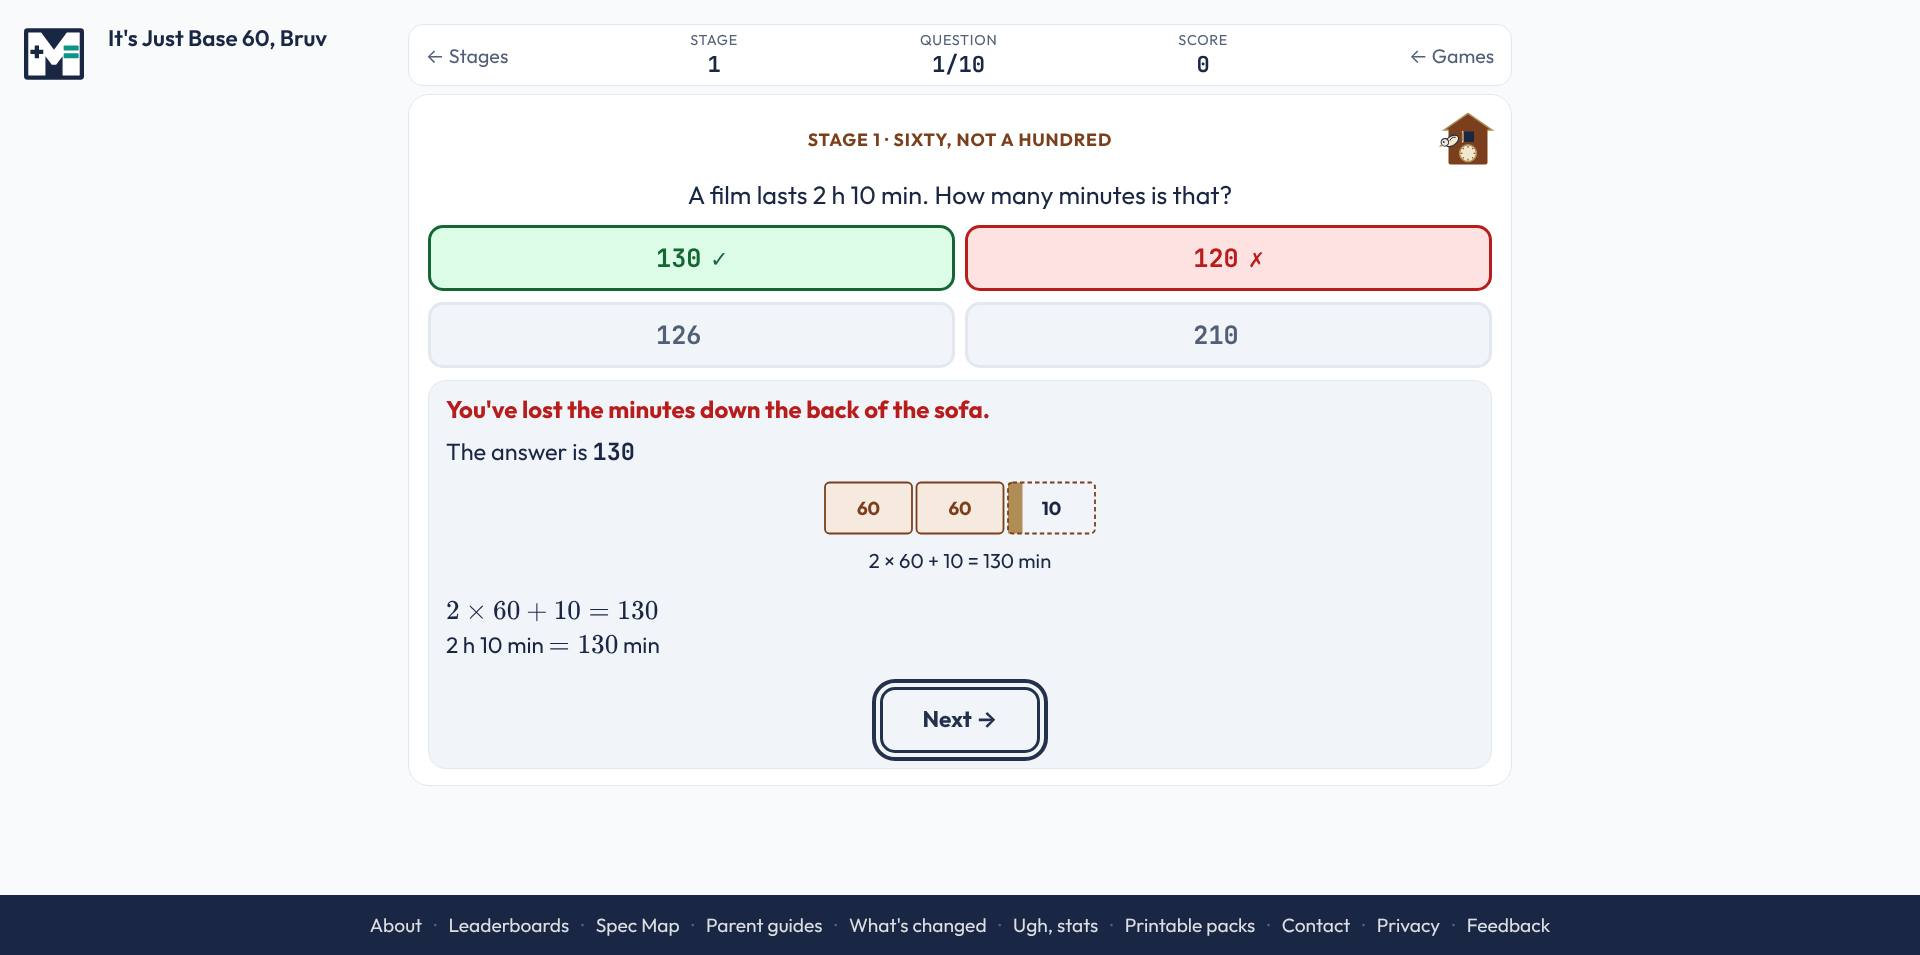
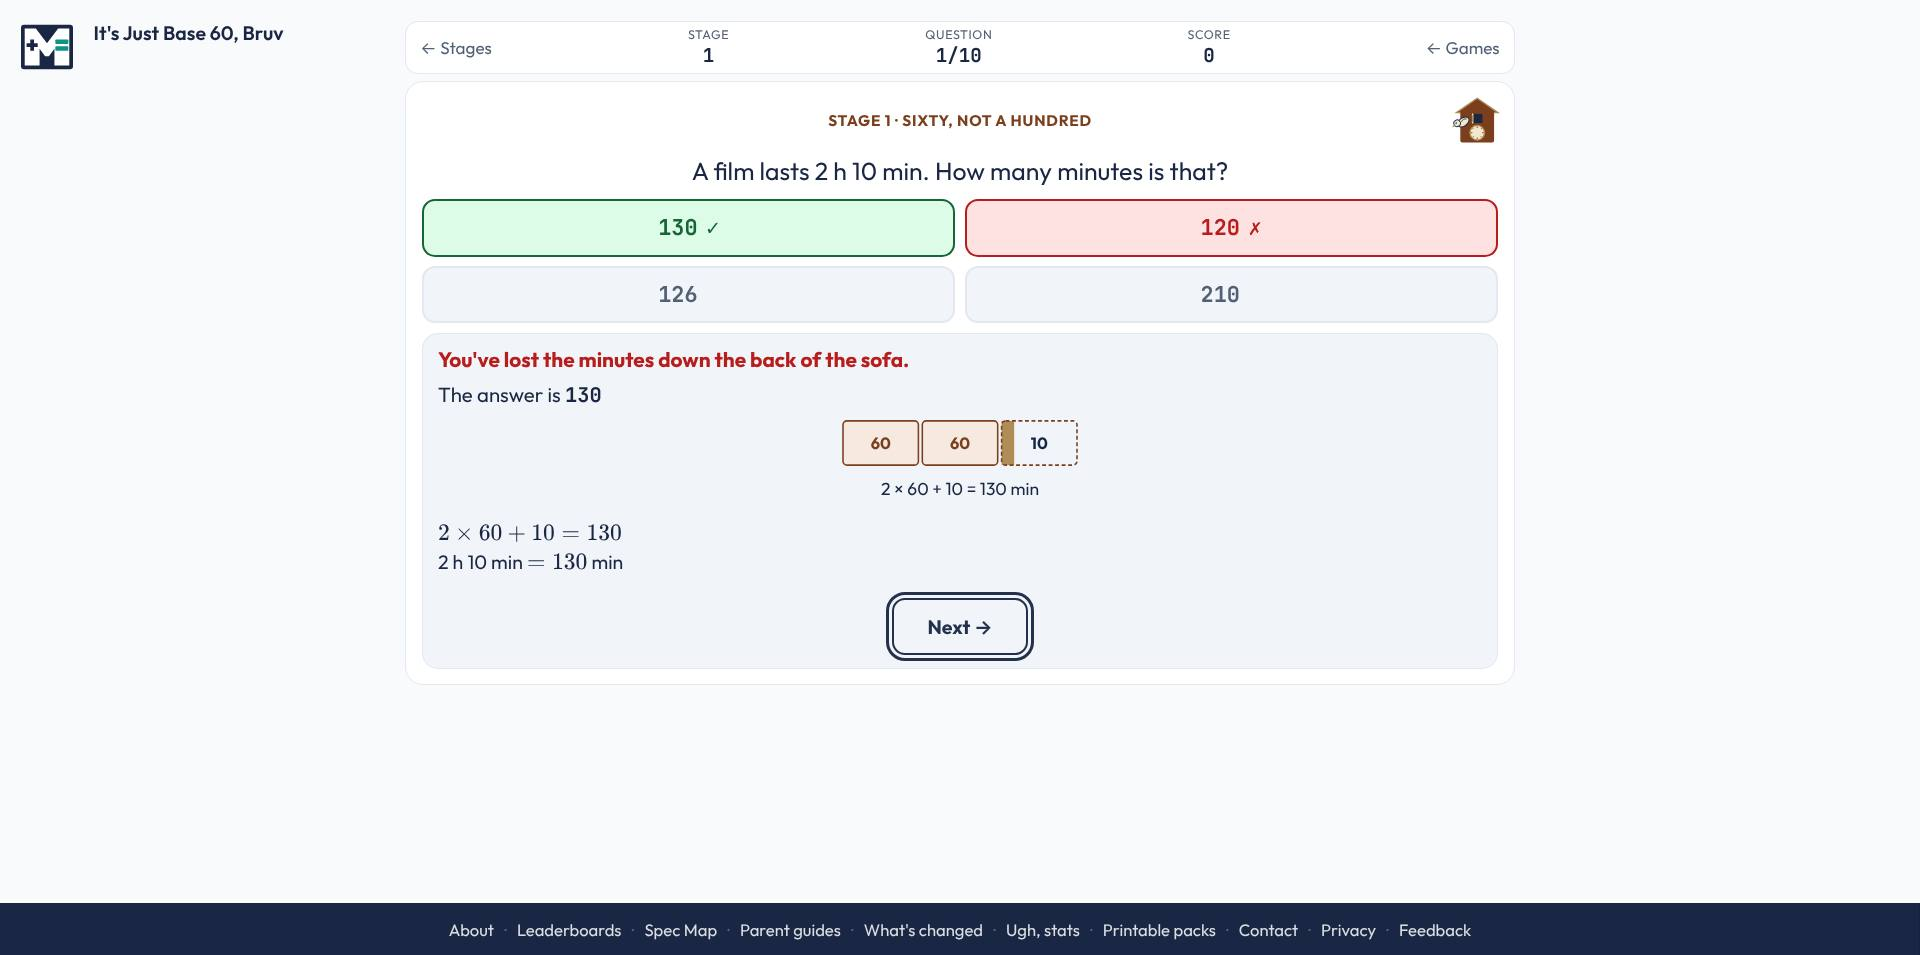
LARGE-SCREEN-LAYER Amendment 1: the pilot under the laptop floor (screenshots, handover, todo); the check's ci-deps names large-screen.js, not the whole assets folder
Claude-Session: https://claude.ai/code/session_016VxfSX6HF79egrU7vkZtee

diff --git a/scripts/check-large-screen.py b/scripts/check-large-screen.py
@@ -1,6 +1,6 @@
 #!/usr/bin/env python3
 # ci-shards: Large-screen layer (schools/assets/large-screen.js: every MIGRATED page carries the layer's tag once, written from data/large-screen.json; each page's zoom at 1920x955, 2560x1310, 1366x650 and 390x844 equal to this script's own reading of rules a-f; a session played on each page at each size with the answer controls and Next above the fold, no sideways scroll and every media query answering as on the unzoomed page; planted faults caught) | | 12
-# ci-deps: schools/assets/ data/large-screen.json scripts/apply-large-screen.py scripts/measure-large-screen.py scripts/measure-phone-fit.py scripts/check-site.py scripts/check-answer-lock.py scripts/plant_common.py games/maffscards/ games/factor-race/ games/surd-simplifier/ games/negative-number-line/ games/bearing-blitz/ games/core-maths-paper1/ games/its-just-base-60-bruv/
+# ci-deps: schools/assets/large-screen.js data/large-screen.json scripts/apply-large-screen.py scripts/measure-large-screen.py scripts/measure-phone-fit.py scripts/check-site.py scripts/check-answer-lock.py scripts/plant_common.py games/maffscards/ games/factor-race/ games/surd-simplifier/ games/negative-number-line/ games/bearing-blitz/ games/core-maths-paper1/ games/its-just-base-60-bruv/
 """The large-screen layer: who loads it, what each page's zoom must be, and that a zoomed page still works
 (SR-34's goal; contract LARGE-SCREEN-LAYER, 26 Nov 2026).
 

diff --git a/docs/handover/cloud.md b/docs/handover/cloud.md
@@ -70,12 +70,15 @@ start-up load). When the work merges, move the file to `docs/history/contracts/`
 
 Claude Code (cloud, lane 2), branch `claude/inspiring-knuth-b1nns9` from main 6d8b633. Shared tier: stops at Gate green for Project Claude's review and Jon's "merge". First commit: this contract and DAILY-POLISH's close-out (in its entry below).
 - **The layer (`schools/assets/large-screen.js`):** one tag per page before </head>, `data-need` and `data-pointer` on it. Zoom on <html>, the largest step of 0.05 meeting rules a-f (its header); thresholds read through the CSSOM (cross-origin skipped; an unreadable same-origin sheet or size condition means no zoom). After zooming it measures a probe: an engine that does not keep the window size, answer rects in screen px, or zoom vh one way or the other gets the zoom taken off (reason "engine"). **Beyond the contract's vh line:** every vh/vw/vmin/vmax length in the page's readable rules is divided by z in place through the CSSOM (the body's min-height is one case), and put back when the zoom changes.
-- **Data and scripts:** `data/large-screen.json` from `scripts/measure-large-screen.py` (layer not served; width 1200; the first px of each of the page's height regimes from 600; 3 seeds; every roster level; Base 60's four stages; need = lowest edge of the answer controls or Next, plus the pinned footer). `scripts/apply-large-screen.py` writes the tags. `scripts/check-large-screen.py` holds MIGRATED, OPT_OUT, POINTER_VERIFIED, its own reading of the rule, the session walk (each game's lock-hint; ROUTES for maffscards and Base 60's stages) and the plants. Pilot scripts copied and rewritten, not cherry-picked.
-- **Chromium, 1920x955 / 2560x1310 (limited by):** Base 60 1.5 / 1.6 (max-height:620 / the 1.6 limit), need 586; maffscards 1.5 / 1.6 (max-height:620), need 535; factor-race 1.55 / 1.6 (max-height:600), need 562; bearing-blitz 1.3 / 1.6 (need 715), pointer test passed at both; surd-simplifier 1.1 / 1.3 (min-height:860 / min-height:980), need 816; core-maths-paper1 1 / 1.15 (need 1102); negative-number-line 1 / 1 (rule e). All 1 at 1366x650 and 390x844. Screenshots: `docs/audits/large-screen-pilot/` (56, 2.8 MB).
-- **Run here (Chromium only):** static PASS; 7 light units and 28 whole sessions PASS; 11 plants caught; 14m37s. **Firefox and WebKit are not installed here and their download is blocked: their first run is the PR's Gate.**
-- **Decided here (for Project Claude):** (1) the check plays a whole session to results in Chromium at all four sizes, and start, question 1 and its wrong answer in all three engines; not a whole session per engine and size (84 sessions of up to 90 s against about 110 s a CI line). (2) "Current entry" means the page's breakpoints are those measured, the tag carries the data's need, and the check's own session (a seed the data never saw) passes. (3) Each threshold counts alone, as the contract words it: surd-simplifier's min-height:980 (only under 760 px wide) holds 1440p at 1.3. (4) Start and results screens are reported, never judged against the fold: Base 60's stage list ends 477 px under it at 1920x955 (304 px under at 1366x650 unzoomed). (5) JS breakpoints (matchMedia, innerHeight in a page's script) are not read by rule c.
-- **STOPPED for Jon and Project Claude (26 Nov): the zoom breaks MaffsCards' start screen, which DAILY-FIT fitted today.** `verify-maffscards.py --only art` FAILS with the layer (11 lines): at 1920x1080 Aa, Play today's deal ends 57 px under the fold (zoom 1.6 leaves 1200x675; Jon's rule is above the fold at 1920x1080, normal and Aa); at 1920x1080 normal, the First to 10 and The entire deck buttons go under the fold with the art; and the verifier's art-size readings are in zoomed px (160%). Cause: the contract's height need covers the answer controls and Next only, so nothing protects a start screen a game fits to the window itself. Not fixed here: the need's definition, an opt-out for MaffsCards, or a change to its verifier are each outside EXACT CHANGE. Options are in the PR.
-- **Next:** Jon's or Project Claude's ruling on the start screen; the PR's Gate for Firefox and WebKit (its maffscards part is red until the ruling).
+- **Data and scripts:** `data/large-screen.json` from `scripts/measure-large-screen.py` (layer not served; width 1280; the first px of each of the page's height regimes from 720; 3 seeds; every roster level; Base 60's four stages; need = lowest edge of the answer controls or Next, plus the pinned footer). `scripts/apply-large-screen.py` writes the tags. `scripts/check-large-screen.py` holds MIGRATED, OPT_OUT, POINTER_VERIFIED, its own reading of the rule, the session walk (each game's lock-hint; ROUTES for maffscards and Base 60's stages) and the plants. Pilot scripts copied and rewritten, not cherry-picked.
+- **Stopped once (26 Nov):** with rule b at 1200 wide and no height floor, the zoom put MaffsCards' Play today's deal 57 px under the fold at 1920x1080 Aa and failed `verify-maffscards.py --only art` (the need covers answer controls and Next only, never a start screen).
+- **Amendment 1 (Jon via Project Claude, 26 Nov; appended to the contract):** a laptop floor: the effective window is never under 1280x720 (rule b), so what is verified on a 1280x720 laptop holds zoomed; rule d kept for games needing more than 720; the verifier reads the art's size in CSS px (`ART_STATE_JS` divides the rect by the page's zoom). The four departures accepted: the lighter engine check, every vh/vw divided back, the engine probe, each threshold counted alone.
+- **Chromium after Amendment 1, 1920x955 / 2560x1310 (limited by):** Base 60 1.3 / 1.6 (b: 720 high / the 1.6 limit), need 589; maffscards 1.3 / 1.6 (b / f), need 535; factor-race 1.3 / 1.6 (b / f), need 562; bearing-blitz 1.3 / 1.6 (b / f), need 715, pointer test passed at both; surd-simplifier 1.1 / 1.3 (min-height:860 / min-height:980), need 816; core-maths-paper1 1 / 1.15 (need 1102); negative-number-line 1 / 1 (rule e). All 1 at 1366x650 and 390x844. Screenshots: `docs/audits/large-screen-pilot/` (56).
+- **Run here (Chromium only), after Amendment 1:** `verify-maffscards.py --only art` PASS; `check-large-screen.py`: static PASS, 7 light units and 28 whole sessions PASS, every plant caught, 14m31s. **Firefox and WebKit are not installed here and their download is blocked: their first run is the PR's Gate.**
+- **Start screens under zoom (reported, never judged), 1920x955:** the lowest start button ends under the fold on factor-race (212 px), Base 60 (285 px; 304 px at 1366x650 unzoomed) and maffscards (557 px; its Play today's deal and the controls DAILY-FIT names are held by its own verifier).
+- **Main merged in (dd74964):** #925 and #926 had landed; cloud.md and todo-done.md keep both lanes' entries. The PR had no Gate until then (GitHub starts none on a conflicted branch). The first Gate (45855785249) failed in the plan job only: this check's ci-deps named `schools/assets/` whole, which `ci-deps.py --selftest` (b) refuses; it now names `large-screen.js`.
+- **Still open for Project Claude:** "current entry" means the page's breakpoints are those measured, the tag carries the data's need, and the check's own session (a seed the data never saw) passes; JS breakpoints (matchMedia, innerHeight in a page's script) are not read by rule c.
+- **Next:** the Gate (the first Firefox and WebKit run), then stop for review and Jon's "merge".
 
 ## 2026-11-26 (cloud): CLASS-NAME-SCRUB (the real class's name, CLASS, and its teacher's surname, TEACHER, taken out of every file on main; invented examples in their place; `docs/handover/contracts/2026-11-26-class-name-scrub.md`)
 

diff --git a/docs/todo.md b/docs/todo.md
@@ -142,7 +142,7 @@ started.** Widen it before it runs so it covers the whole class:
 | CORE-PAPER-BANKS | **Bigger pools per section for the four Core Maths papers, for repeat attempts** (Jon, 19 Nov 2026; from CORE-PAPERS-SHUFFLE). Every play now deals each section's questions and each question's options in a new order, but each paper is still its 36 items, so a third go meets the same questions. A larger pool per section, each paper dealing its section sizes from it. Queued behind the priority-audience banks. | Project Claude (banks), after the priority-audience banks |
 | CALC-CLEAR-ON-RIGHT | **A right answer clears the shared calculator (CALC-IMPLIED-MULT Amendment 2, Jon 20 Nov 2026): stopped at its STOP IF, nothing built.** `growth-and-decay` CM2 marks sub-question 3 (find k) correct before sub-question 1 uses that k, so a clear there would wipe working still needed. Jon to rule: build it as written (CM2's k then retyped from the feedback), exempt multi-part scenarios, or change CM2. The design (a `maffs:answered` event from mfg before the production gate; every mounted calculator clears on correct:true only) and its tests are in the saved contract, `docs/history/contracts/2026-11-20-calc-implied-mult.md` once merged. | **Jon** (ruling); then home lane |
 | WRONG-PAUSE-REASONS | **Wrong-answer pauses that give no reason** (CIRCLE-WORKING, 19 Nov 2026, from #838's corrected survey: first wrong answer, default level, 390x844). Canon 7.6: any pause must have something on screen worth reading; each game's reasons are its own content, so one game per PR (Circle Theorem Spotter's "Why" card is the pattern). **Answer shown, no reason:** curling-friction, force-resolver, moments-master, equation-builder, percentage-flip, estimation-golf, wrong-on-the-internet, expected-damage. **Marks and Next only:** proportion-blaster, standard-form-blitz (A-Level; GCSE has its working). **Not traced** (no `MaffsNext.wrong` call): expectation-station, maths-court, tax-theft. 41 games not driven by the survey. The four with no pause at all are a separate row. | Project Claude to queue |
-| LARGE-SCREEN-LAYER | **Large screens (SR-34's goal; not yet in canon): the shared layer is built and piloted on seven games** (contract LARGE-SCREEN-LAYER, 26 Nov 2026). `schools/assets/large-screen.js` chooses each page's zoom at run time: never across the page's own breakpoints, never past its measured height need (`data/large-screen.json`, written by `scripts/measure-large-screen.py`), never on a page that reads the pointer unless a measured test is on `scripts/check-large-screen.py`'s POINTER_VERIFIED. Chromium, 1920x955 / 2560x1310: Base 60 1.5 / 1.6, maffscards 1.5 / 1.6, factor-race 1.55 / 1.6, bearing-blitz 1.3 / 1.6, surd-simplifier 1.1 / 1.3, core-maths-paper1 1 / 1.15, negative-number-line 1 / 1. **Still owed:** Jon looks at the seven on a large screen; Project Claude rules on what Firefox and WebKit do (the check's report) and on reading a breakpoint's conditions together (surd-simplifier's `min-height:980px` applies only under 760 px wide and holds 1440p at 1.3). Then LARGE-SCREEN-ROLLOUT. | Jon; Project Claude |
+| LARGE-SCREEN-LAYER | **Large screens (SR-34's goal; not yet in canon): the shared layer is built and piloted on seven games** (contract LARGE-SCREEN-LAYER, 26 Nov 2026). `schools/assets/large-screen.js` chooses each page's zoom at run time: never leaving less than a 1280x720 laptop's room (Amendment 1), never across the page's own breakpoints, never past its measured height need (`data/large-screen.json`, written by `scripts/measure-large-screen.py`), never on a page that reads the pointer unless a measured test is on `scripts/check-large-screen.py`'s POINTER_VERIFIED. Chromium, 1920x955 / 2560x1310: Base 60, maffscards, factor-race and bearing-blitz 1.3 / 1.6, surd-simplifier 1.1 / 1.3, core-maths-paper1 1 / 1.15, negative-number-line 1 / 1. **Still owed:** Jon looks at the seven on a large screen; Project Claude rules on what Firefox and WebKit do (the check's report) and on reading a breakpoint's conditions together (surd-simplifier's `min-height:980px` applies only under 760 px wide and holds 1440p at 1.3). Then LARGE-SCREEN-ROLLOUT. | Jon; Project Claude |
 | LARGE-SCREEN-ROLLOUT | **The large-screen layer on the other 110 games, with canon §7.5.8 and an /updates/ line** (contract LARGE-SCREEN-LAYER, 26 Nov 2026). Each page joins through `check-large-screen.py`'s MIGRATED, a measurement (`measure-large-screen.py`: every roster level; a staged game needs its stages named in ROUTES `starts`; a game with no lock-hint needs a route) and `apply-large-screen.py`. Decide first: the check's cost (seven pages are 51 units; a whole session per page and size does not scale to 117 pages inside one CI line's 110 s) and what counts as a current measurement after a game's layout changes (today: its breakpoints unchanged and the check's own session passing). | Project Claude (contract), after Jon has seen the pilot |
 | LARGE-SCREEN-POINTER | **Pages the large-screen layer holds at zoom 1 because they place things from the pointer's position (rule e)** (contract LARGE-SCREEN-LAYER, 26 Nov 2026). Of the pilot: `negative-number-line` (its touch drag sets `style.left/top` from `clientX/clientY`, :765-766, zoomed px against screen px; the parked pilot measured the ghost tile 233 px from the finger at zoom 1.25). 13 game pages read clientX; each is held until a measured test puts it on POINTER_VERIFIED (bearing-blitz is on it: 8 presses and a drag within 1 degree) or a shared drag helper converts the units once. | Project Claude (contract) |
 | START-SIDEWAYS-GATE | **Sideways scroll on a start screen becomes a CI gate in every mode; the start screen's fold stays report-only** (Jon's ruling (b), LARGE-SCREEN-PILOT, 20 Nov 2026; independent of zoom). Survey first, today's offenders on a known list, each with a row. Known case: formula-forge in Aa is 490 px wide at every phone size, its stage-preview grid overflowing. | Project Claude (contract) |
